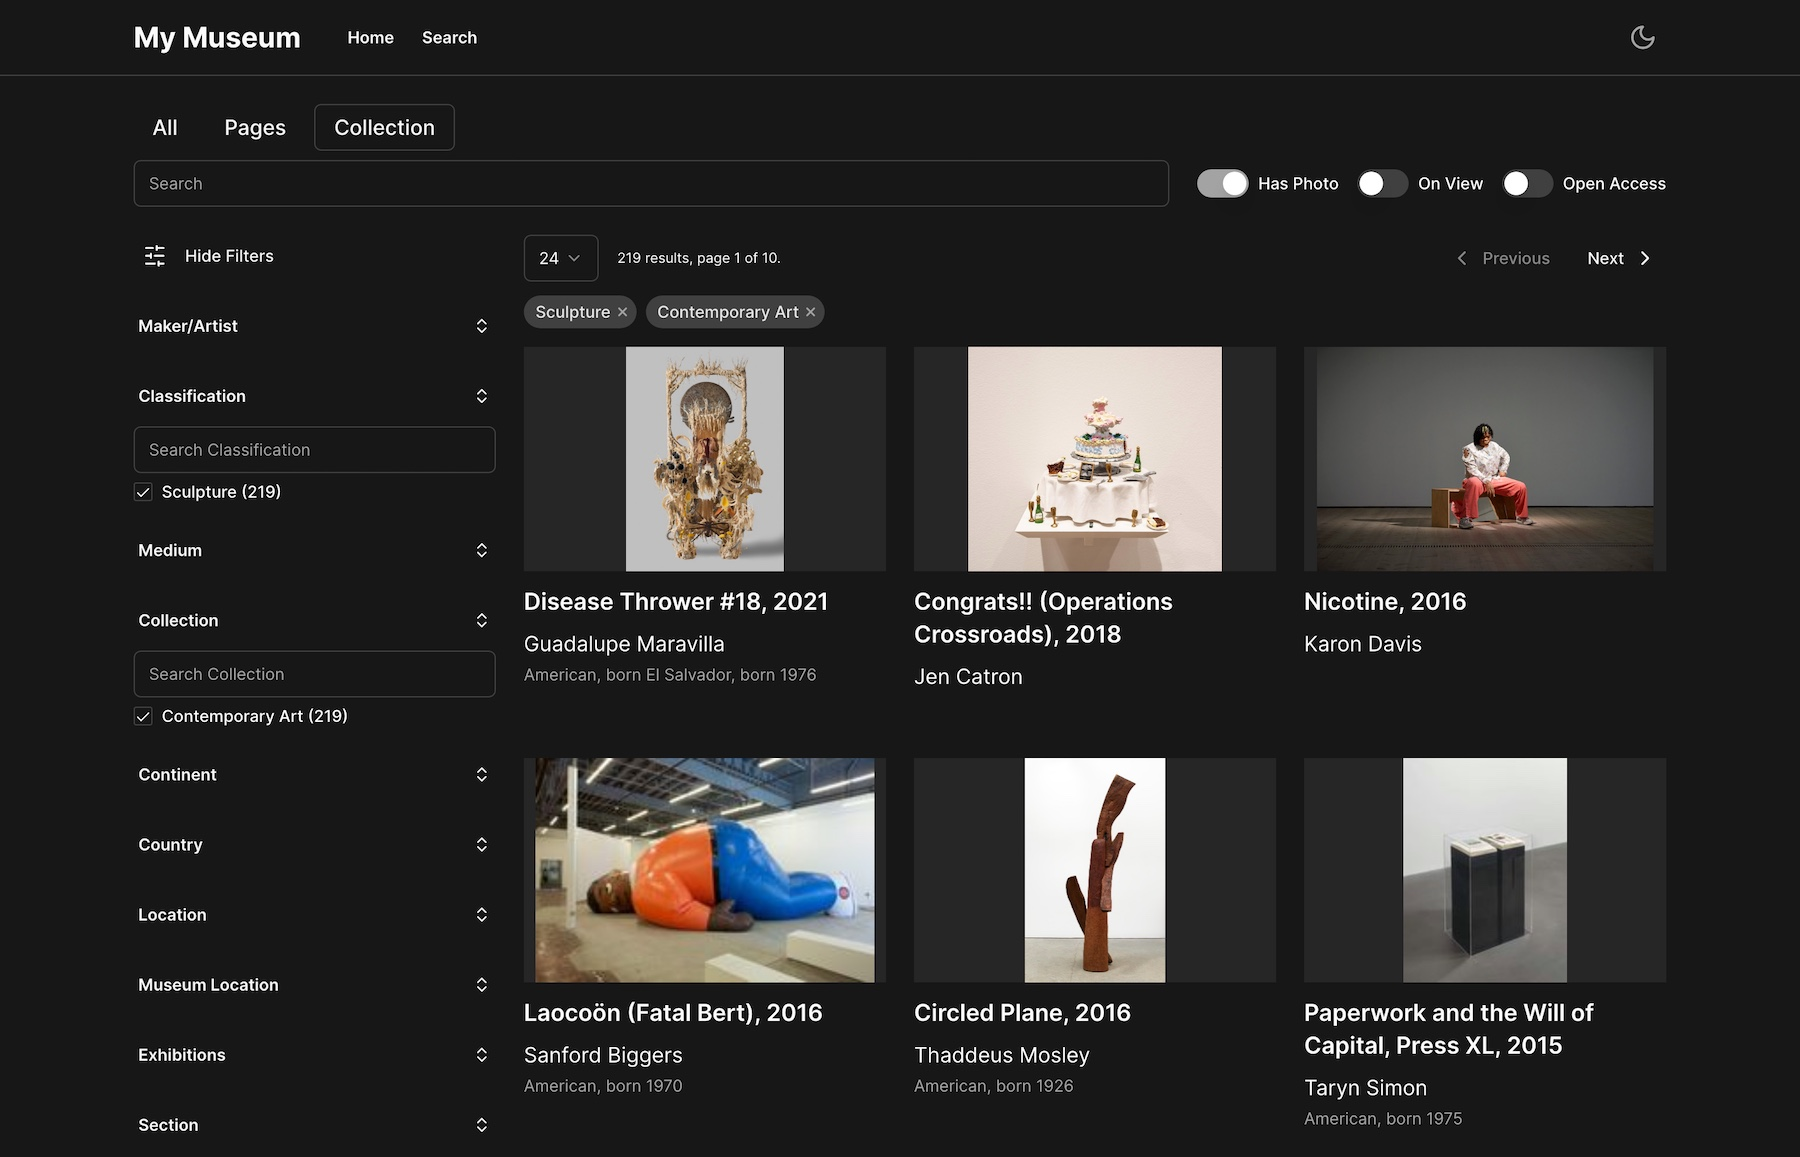
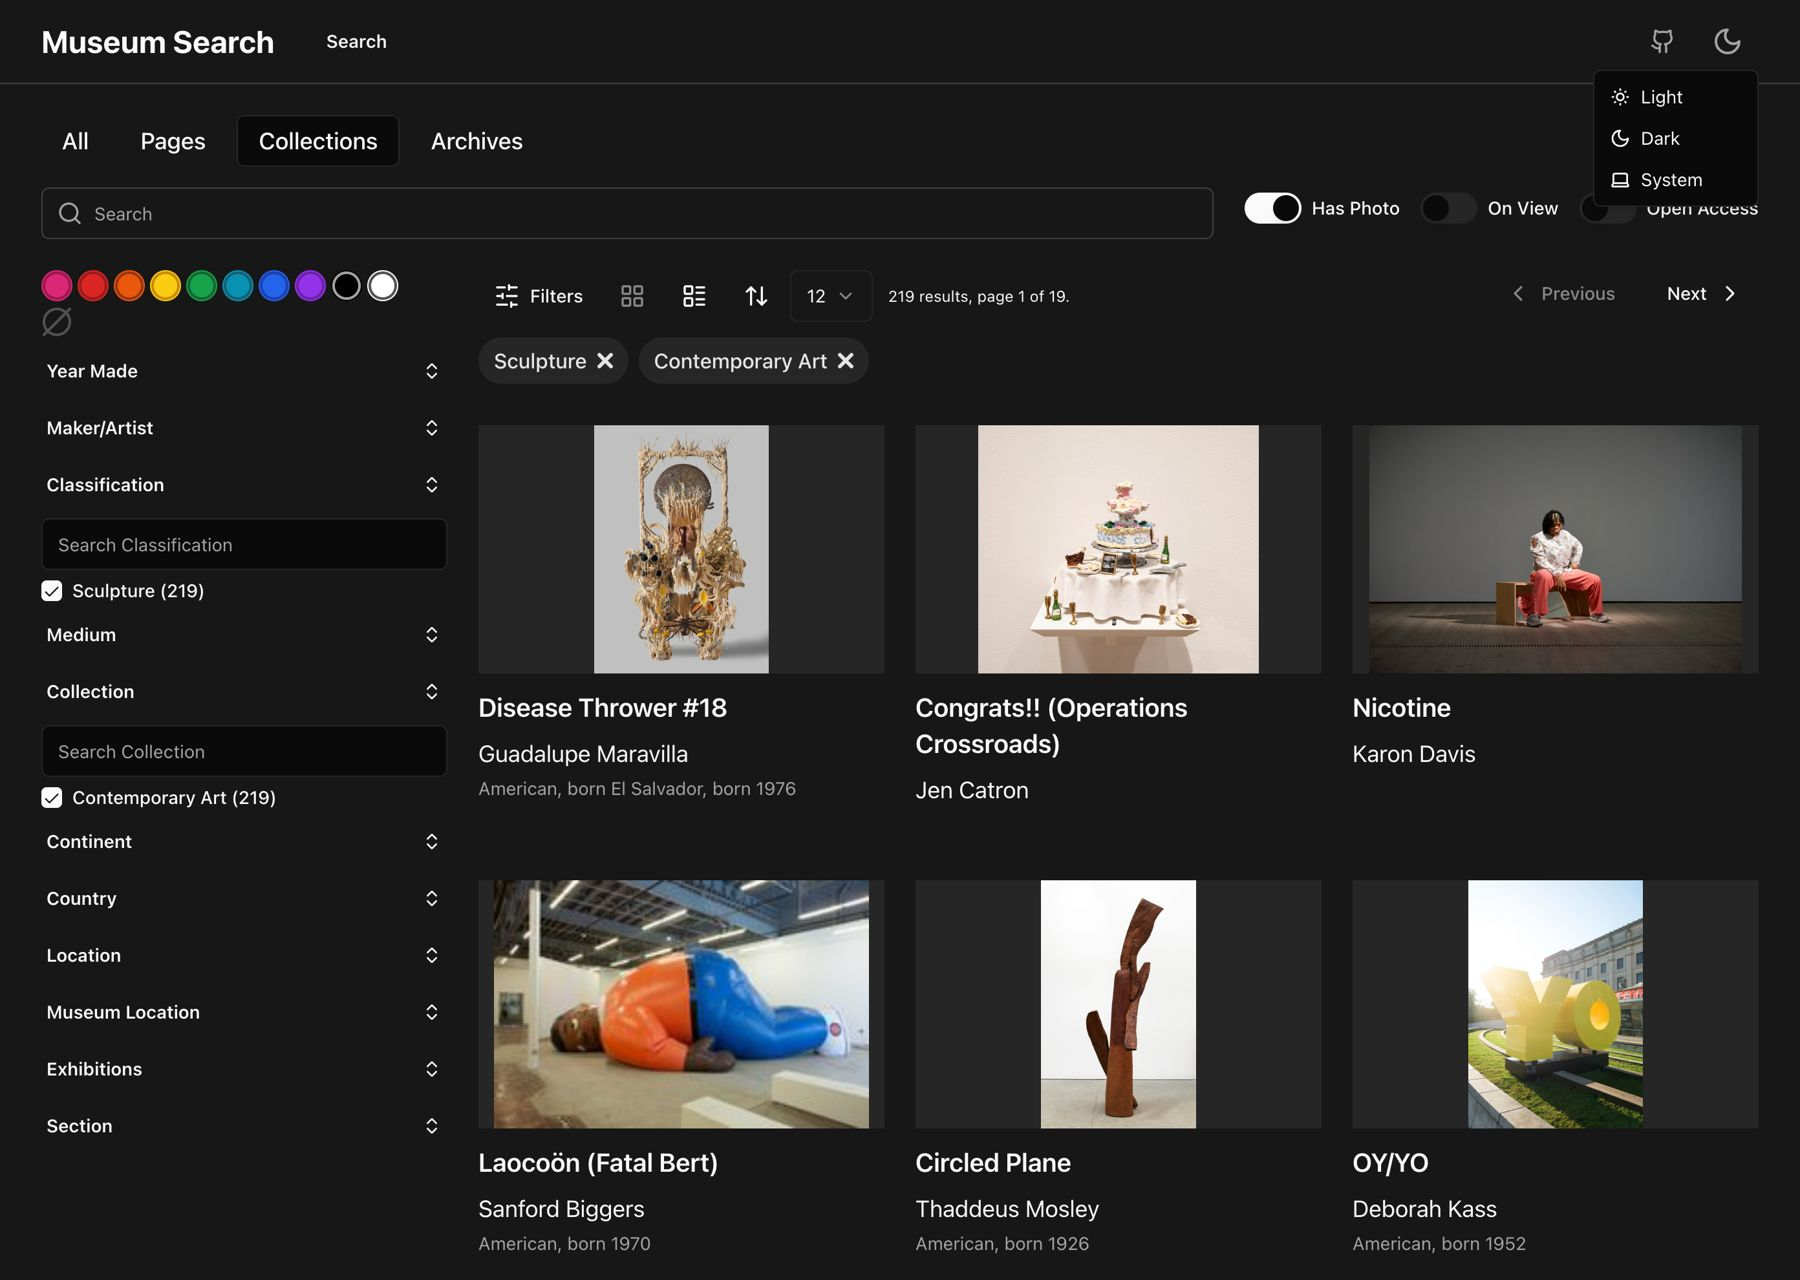
update screenshots

diff --git a/README.md b/README.md
@@ -376,6 +376,10 @@ Dark mode example:
 
 ![Dark Mode Screenshot](./doc/img/ui_dark.jpg)
 
+Color search example:
+
+![Color Search Screenshot](./doc/img/ui_color.jpg)
+
 Object page example:
 
 ![Object page sample](./doc/img/ui_object_view.jpg)
